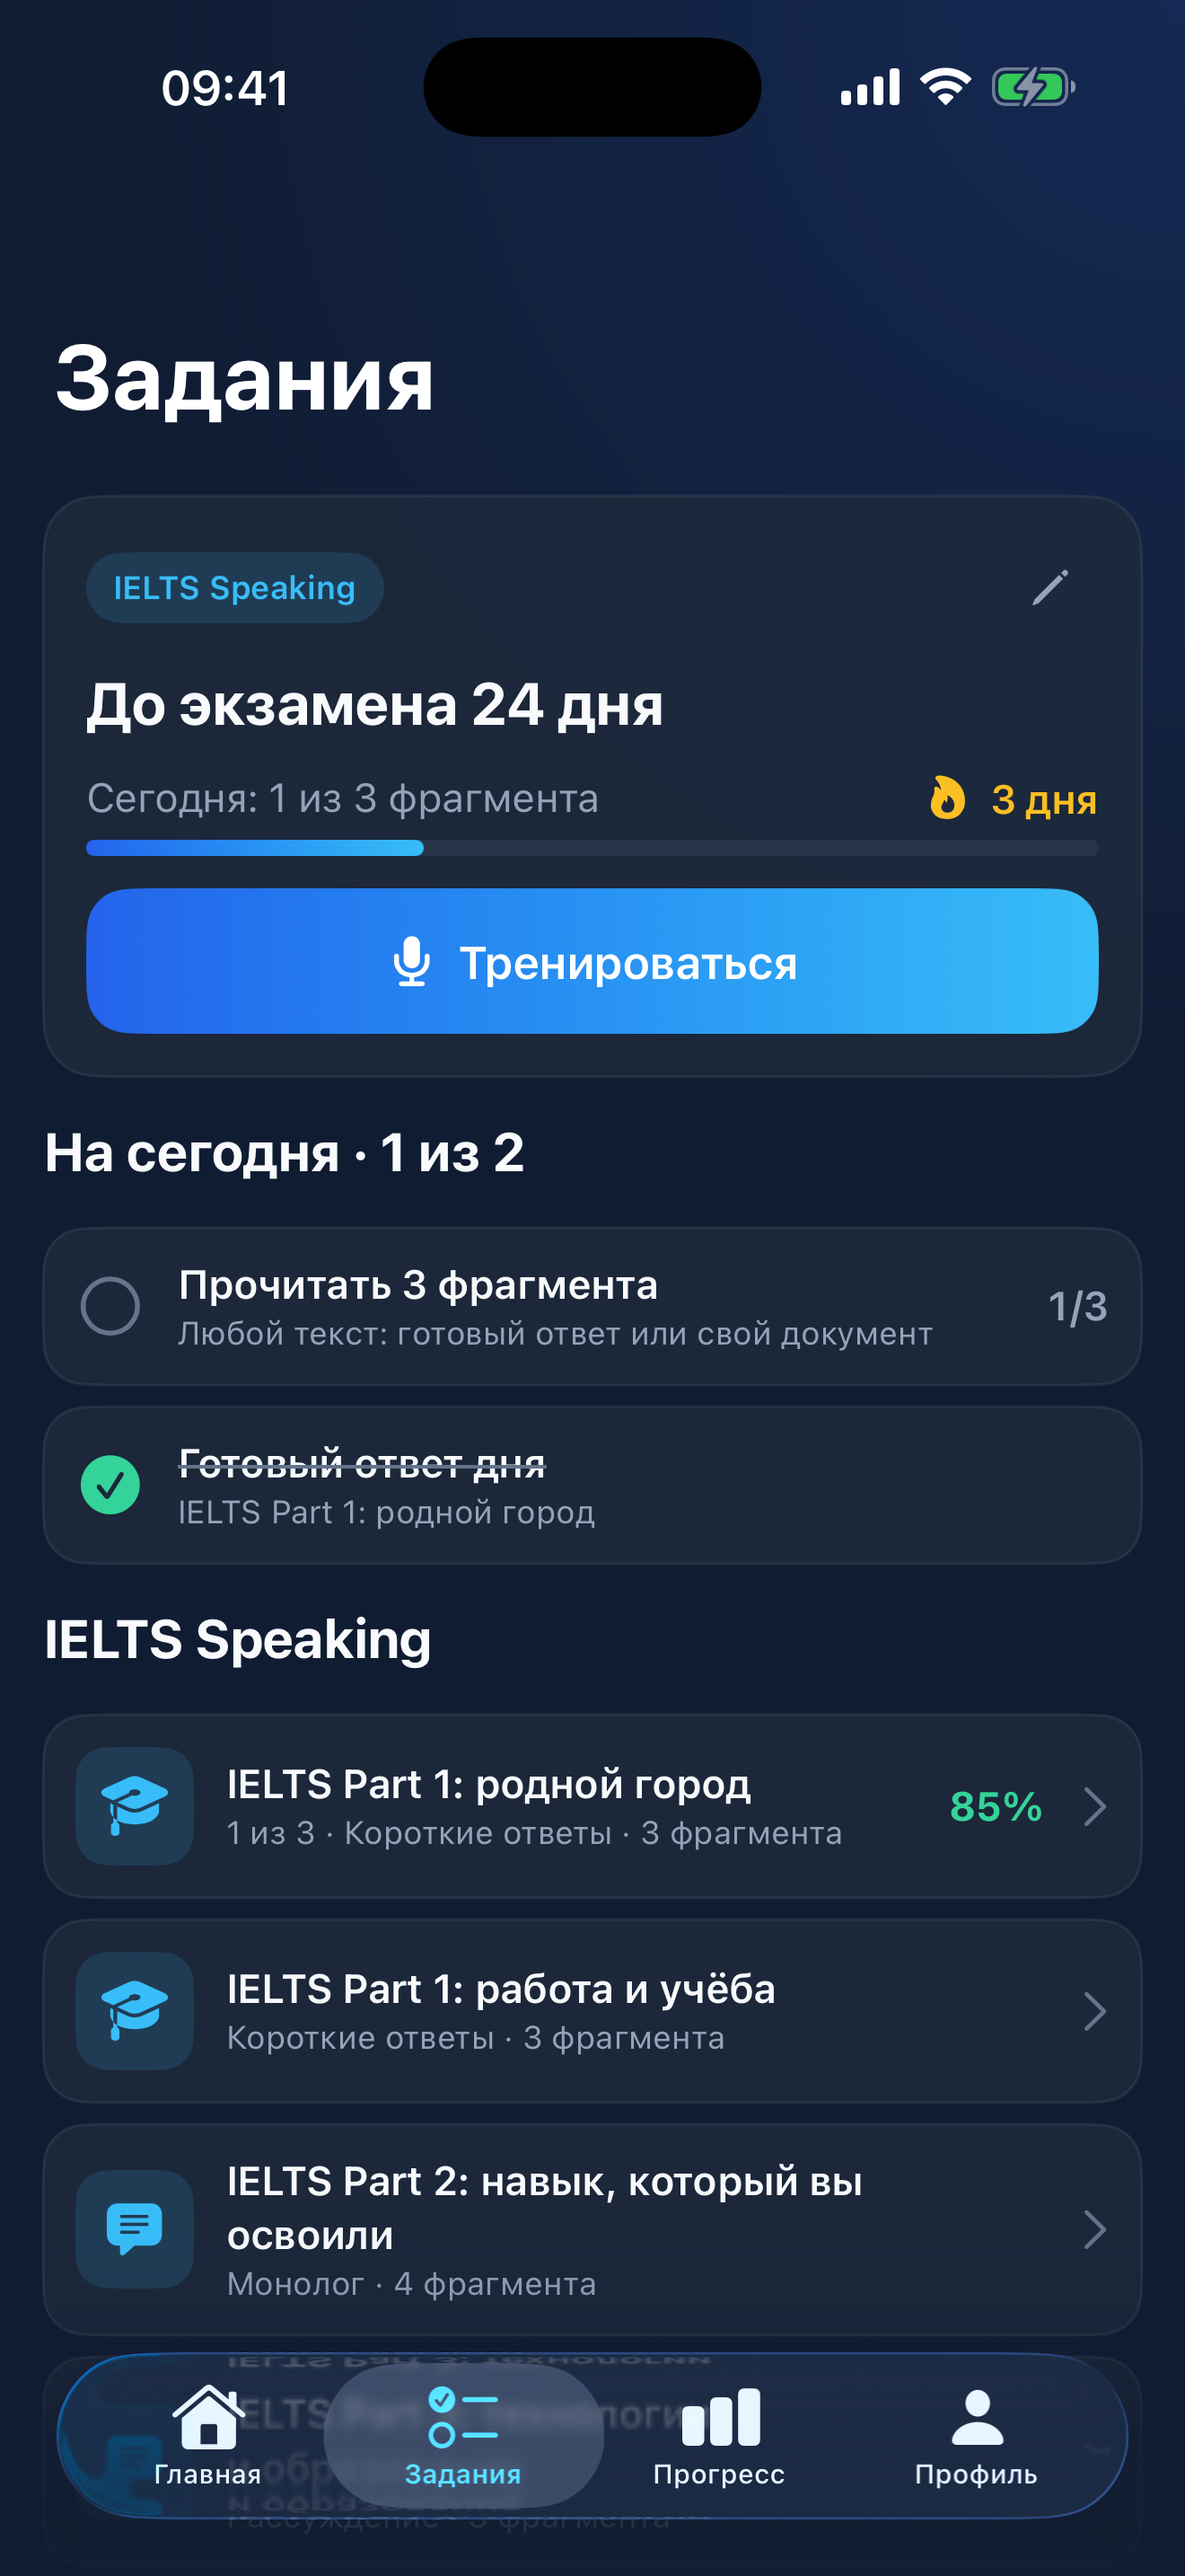
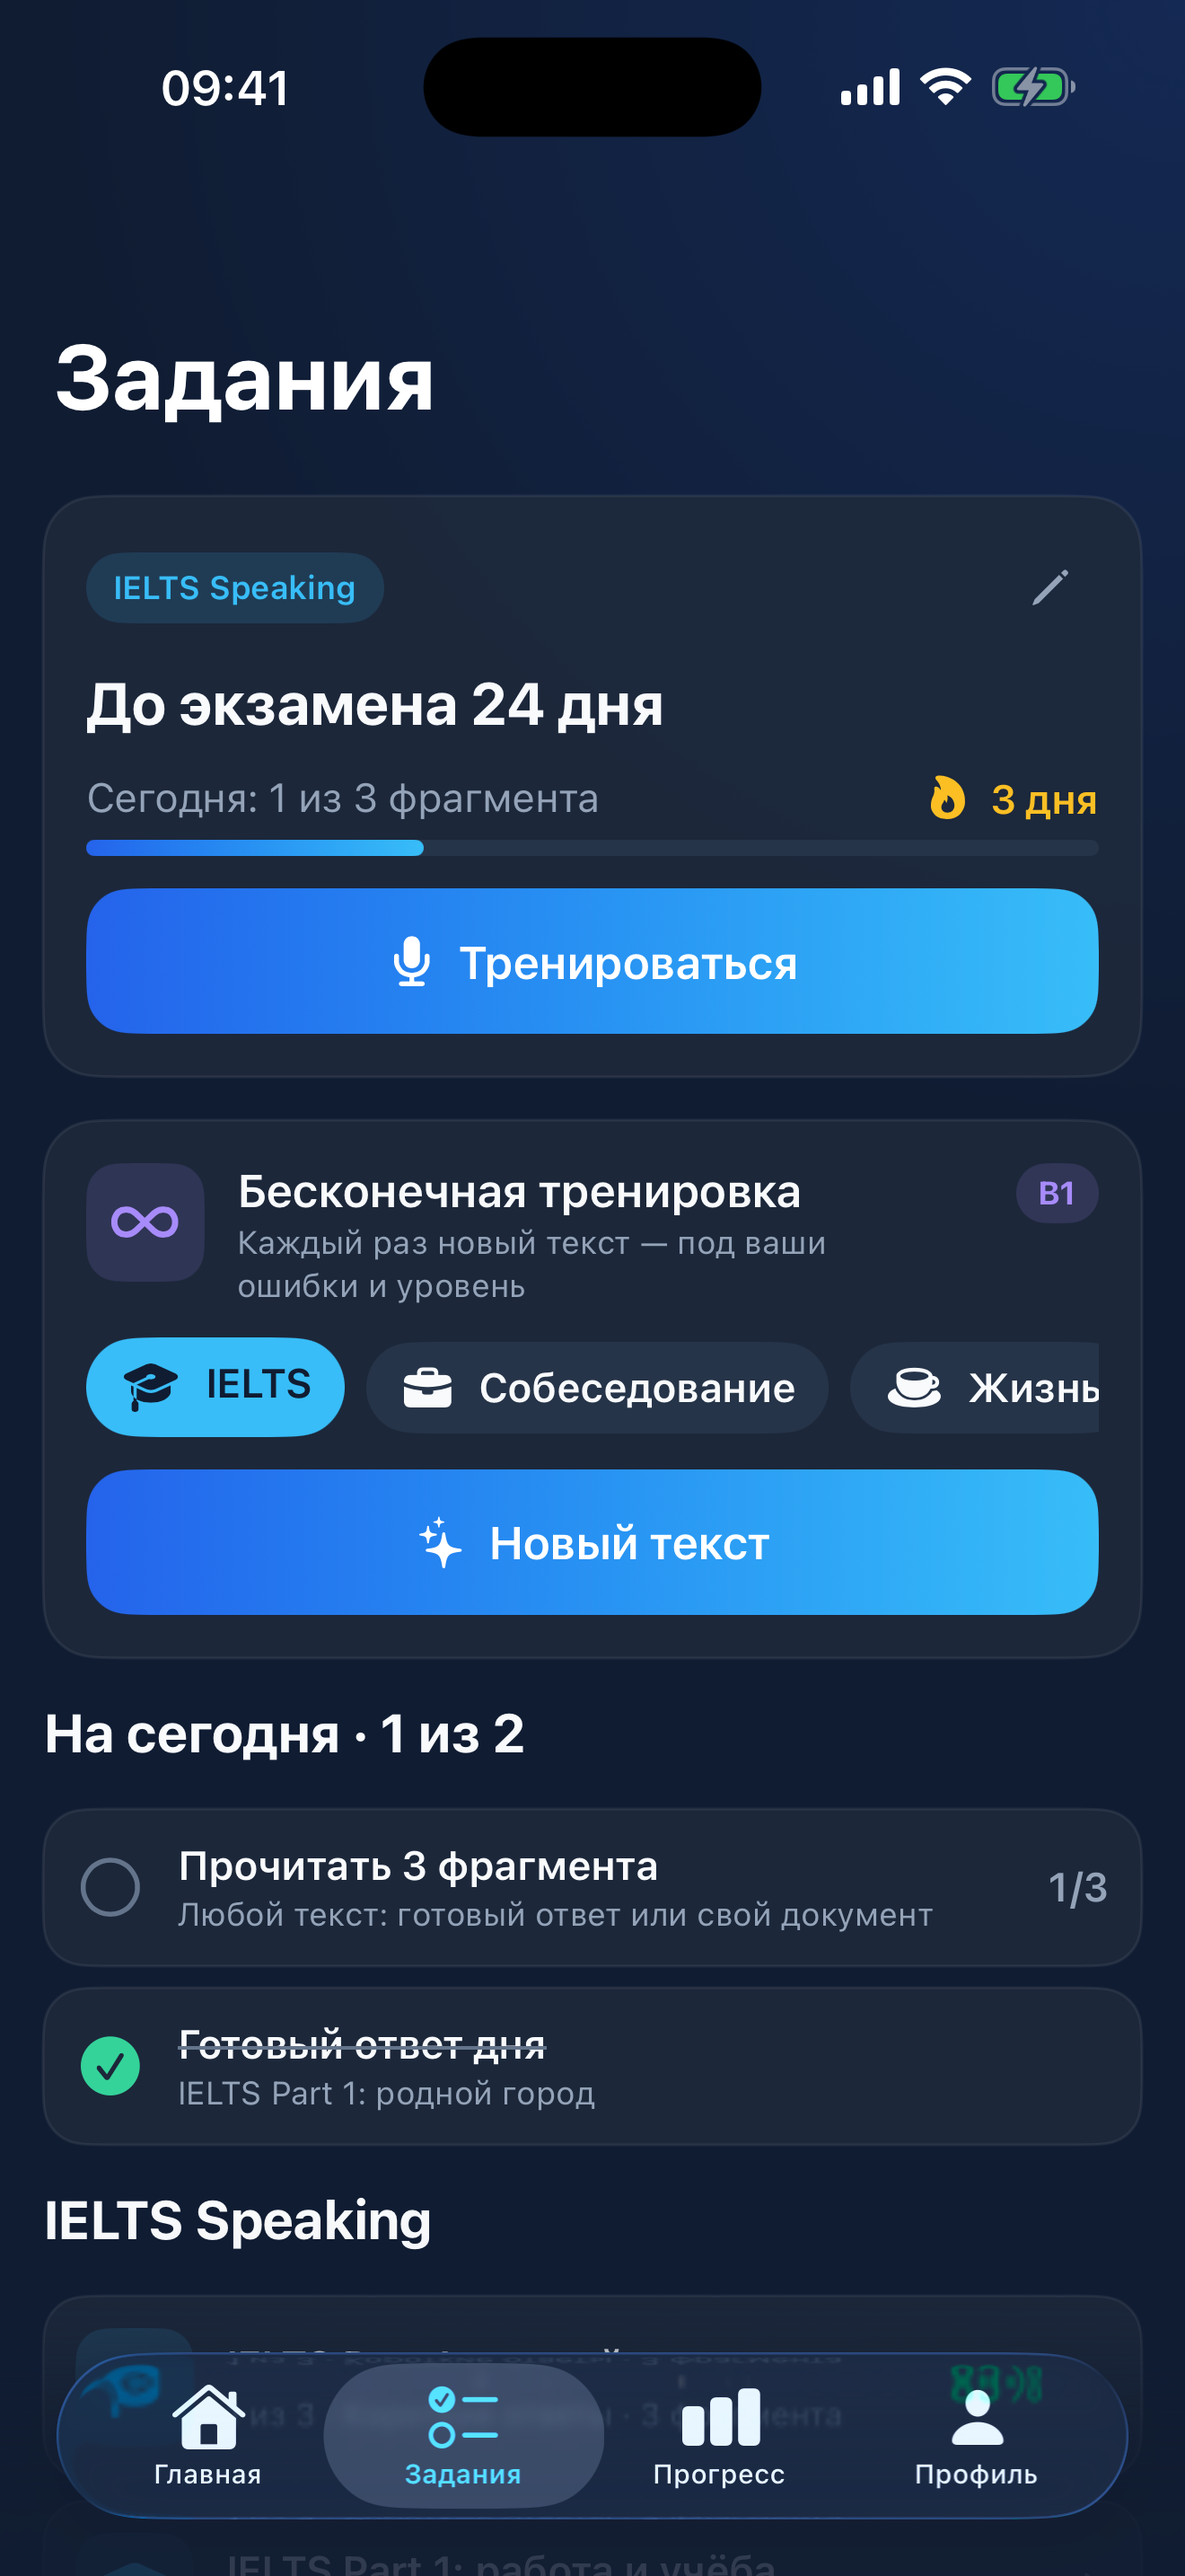
Скриншоты App Store: тренировка /θ/, вымышленный профиль в демо; описание и «Что нового» обновлены

diff --git a/ios/SpeakCheck/Features/Settings/SettingsView.swift b/ios/SpeakCheck/Features/Settings/SettingsView.swift
@@ -92,8 +92,15 @@ struct SettingsView: View {
 
 private extension SettingsView {
     var accountHeader: some View {
-        let provider = SignInProvider.current
-        let profile = provider != nil ? AccountProfile.current : nil
+        var provider = SignInProvider.current
+        var profile = provider != nil ? AccountProfile.current : nil
+        #if DEBUG
+        // Скриншоты для App Store (-demoData): вымышленный профиль вместо настоящего аккаунта разработчика.
+        if ProcessInfo.processInfo.arguments.contains("-demoData") {
+            provider = .apple
+            profile = AccountProfile(name: "Айгерим Асанова", email: nil, avatarURL: nil)
+        }
+        #endif
         let title = profile?.name ?? provider?.title ?? "Гостевой режим"
         let subtitle: String = {
             guard let provider else { return "История привязана к этому iPhone — войдите, чтобы не потерять её" }

diff --git a/ios/SpeakCheck/App/AppStore.swift b/ios/SpeakCheck/App/AppStore.swift
@@ -189,6 +189,14 @@ final class AppStore {
     static func demo() -> AppStore {
         let store = AppStore(persists: false)
         store.documents = MockData.documents
+        store.documents.insert(SCDocument(
+            id: UUID(), title: "Three Things I Think About", source: .manual, status: .ready,
+            segments: [ReadingSegment(id: UUID(), sequence: 0, referenceText:
+                "I think three things matter most when I travel: a thoughtful plan, a thick warm jacket, and the patience to thank everyone who helps along the way.",
+                pageNumber: nil)],
+            createdAt: .now, bestScore: nil, completedSegments: 0,
+            practice: PracticeInfo(topic: "ielts", topicName: "IELTS", level: "B1", focusSound: "θ", focusExample: "think")),
+            at: 0)
         store.attempts = MockData.attempts
         store.hasCompletedOnboarding = true
         store.goal = PracticeGoal(kind: .ielts, date: Calendar.current.date(byAdding: .day, value: 24, to: .now), dailyTarget: 3)

diff --git a/ios/SpeakCheck/App/RootView.swift b/ios/SpeakCheck/App/RootView.swift
@@ -100,6 +100,10 @@ struct RootView: View {
         case "document": if let doc { router.homePath.append(Route.document(doc.id)) }
         case "reader": if let doc { router.homePath.append(Route.reader(documentID: doc.id, segmentIndex: 0)) }
         case "practice":
+            if let demo = store.documents.first(where: { $0.practice != nil }), args.contains("-demoData") {
+                router.homePath.append(Route.reader(documentID: demo.id, segmentIndex: 0))
+                return
+            }
             Task {
                 guard let dto = try? await PracticeService.next(topic: .ielts) else { return }
                 let doc = store.addPractice(dto)

diff --git a/docs/appstore.md b/docs/appstore.md
@@ -16,7 +16,7 @@
 
 ## Описание
 
-Готовьтесь к IELTS Speaking и собеседованию на английском: читайте свой ответ вслух и узнайте, какие звуки вас выдают — с объяснением на русском.
+Говорите по-английски чисто и уверенно: читайте вслух любой английский текст и узнайте, какие звуки вас выдают — с объяснением на русском. Подходит для IELTS Speaking, собеседований и повседневной речи.
 
 Как это работает:
 • Выберите цель и дату — экзамен или собеседование. Приложение покажет, сколько осталось, и план на каждый день.
@@ -24,6 +24,12 @@
 • Или загрузите свой текст: PDF, Word, TXT или фото страницы.
 • Прочитайте фрагмент вслух и получите оценку 0–100 по точности звуков, беглости, полноте и интонации.
 • Посмотрите, какие слова и звуки прозвучали неточно, и прочитайте разбор на русском.
+
+Бесконечная тренировка:
+• Каждый раз новый текст, написанный под ваш уровень (A2–C1) и ваши слабые звуки — например, много слов со звуком /θ/, если он у вас не получается.
+• Темы: IELTS, собеседование, жизнь, сюрприз. Уровень растёт вместе с вашими баллами.
+• Образец произношения живым голосом — три голоса на выбор.
+• Запас текстов на телефоне: можно читать без интернета, оценки придут, когда появится сеть.
 
 Каждый день:
 • Задания на сегодня с автоматическими галочками.
@@ -43,12 +49,14 @@
 
 ## Что нового (1.0.0)
 
-Первая версия: подготовка к IELTS Speaking и собеседованиям — цель с датой и задания на день, оценка по словам и звукам, разбор на русском, вызовы друзьям.
+Первая версия: оценка произношения по словам и звукам, разбор ошибок на русском, бесконечная тренировка с текстами под ваш уровень и слабые звуки, образец живым голосом, цель с датой и задания на день, вызовы друзьям. Вход через Apple или Google.
 
 ## Скриншоты (6,9", 1320×2868)
 
-`docs/screenshots/`: onboarding, home, reader, result, word, history, sharecard.
-Пересъёмка: `ios/scripts/screenshots.sh <SIM_UDID> onboarding home reader result word history sharecard`
+`docs/screenshots/` — порядок для App Store: home, practice, result, word, tasks, sharecard, history, settings, onboarding.
+Пересъёмка (сначала сборка в `ios/build`: `xcodebuild … -derivedDataPath build`):
+`ios/scripts/screenshots.sh <SIM_UDID> onboarding home practice result word tasks history settings sharecard`
+В демо-режиме профиль вымышленный — настоящие имя и email на скриншоты не попадают.
 на симуляторе iPhone 17 Pro Max.
 
 ## App Privacy (анкета «Конфиденциальность приложения»)
